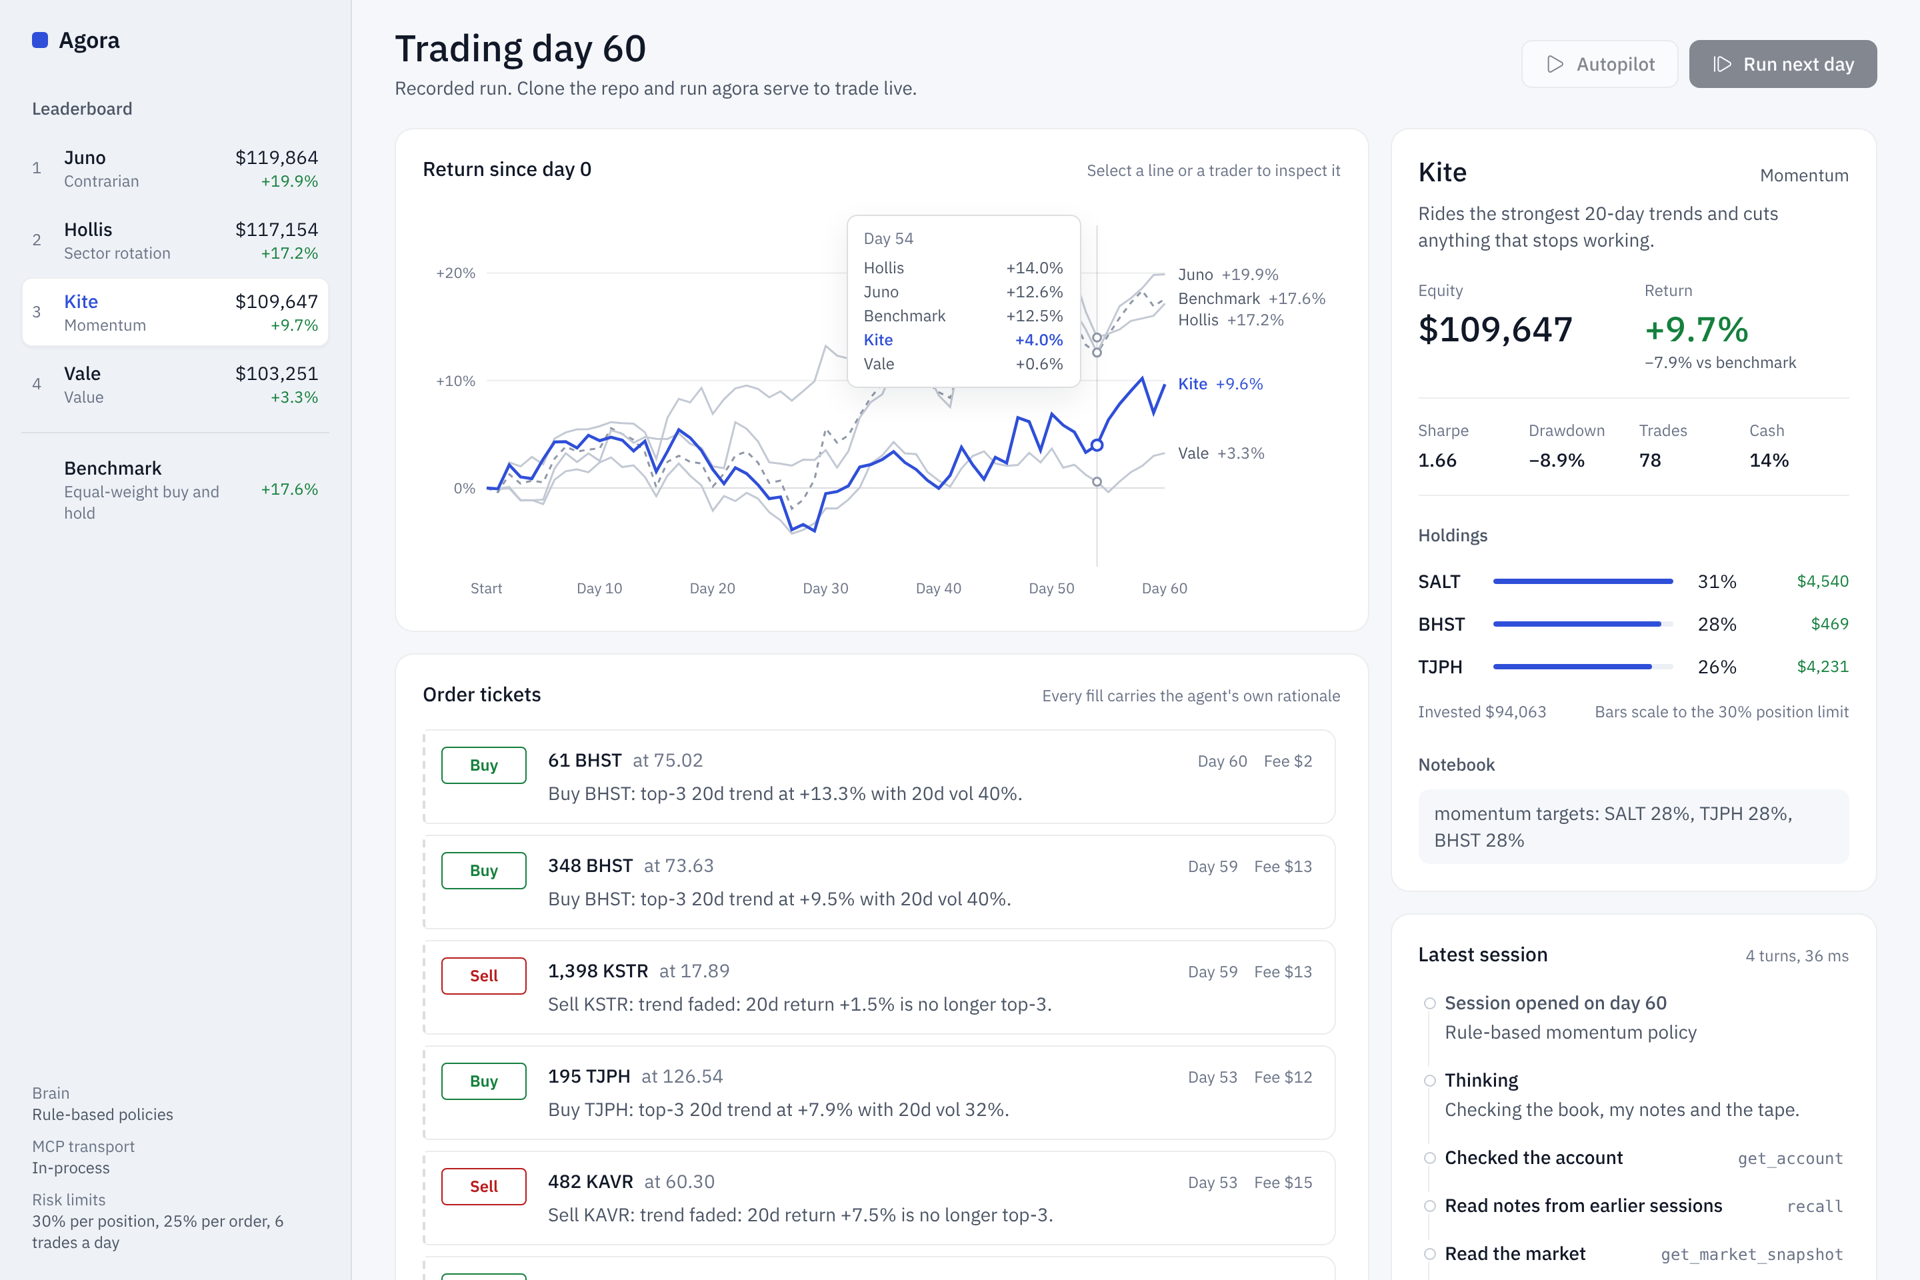
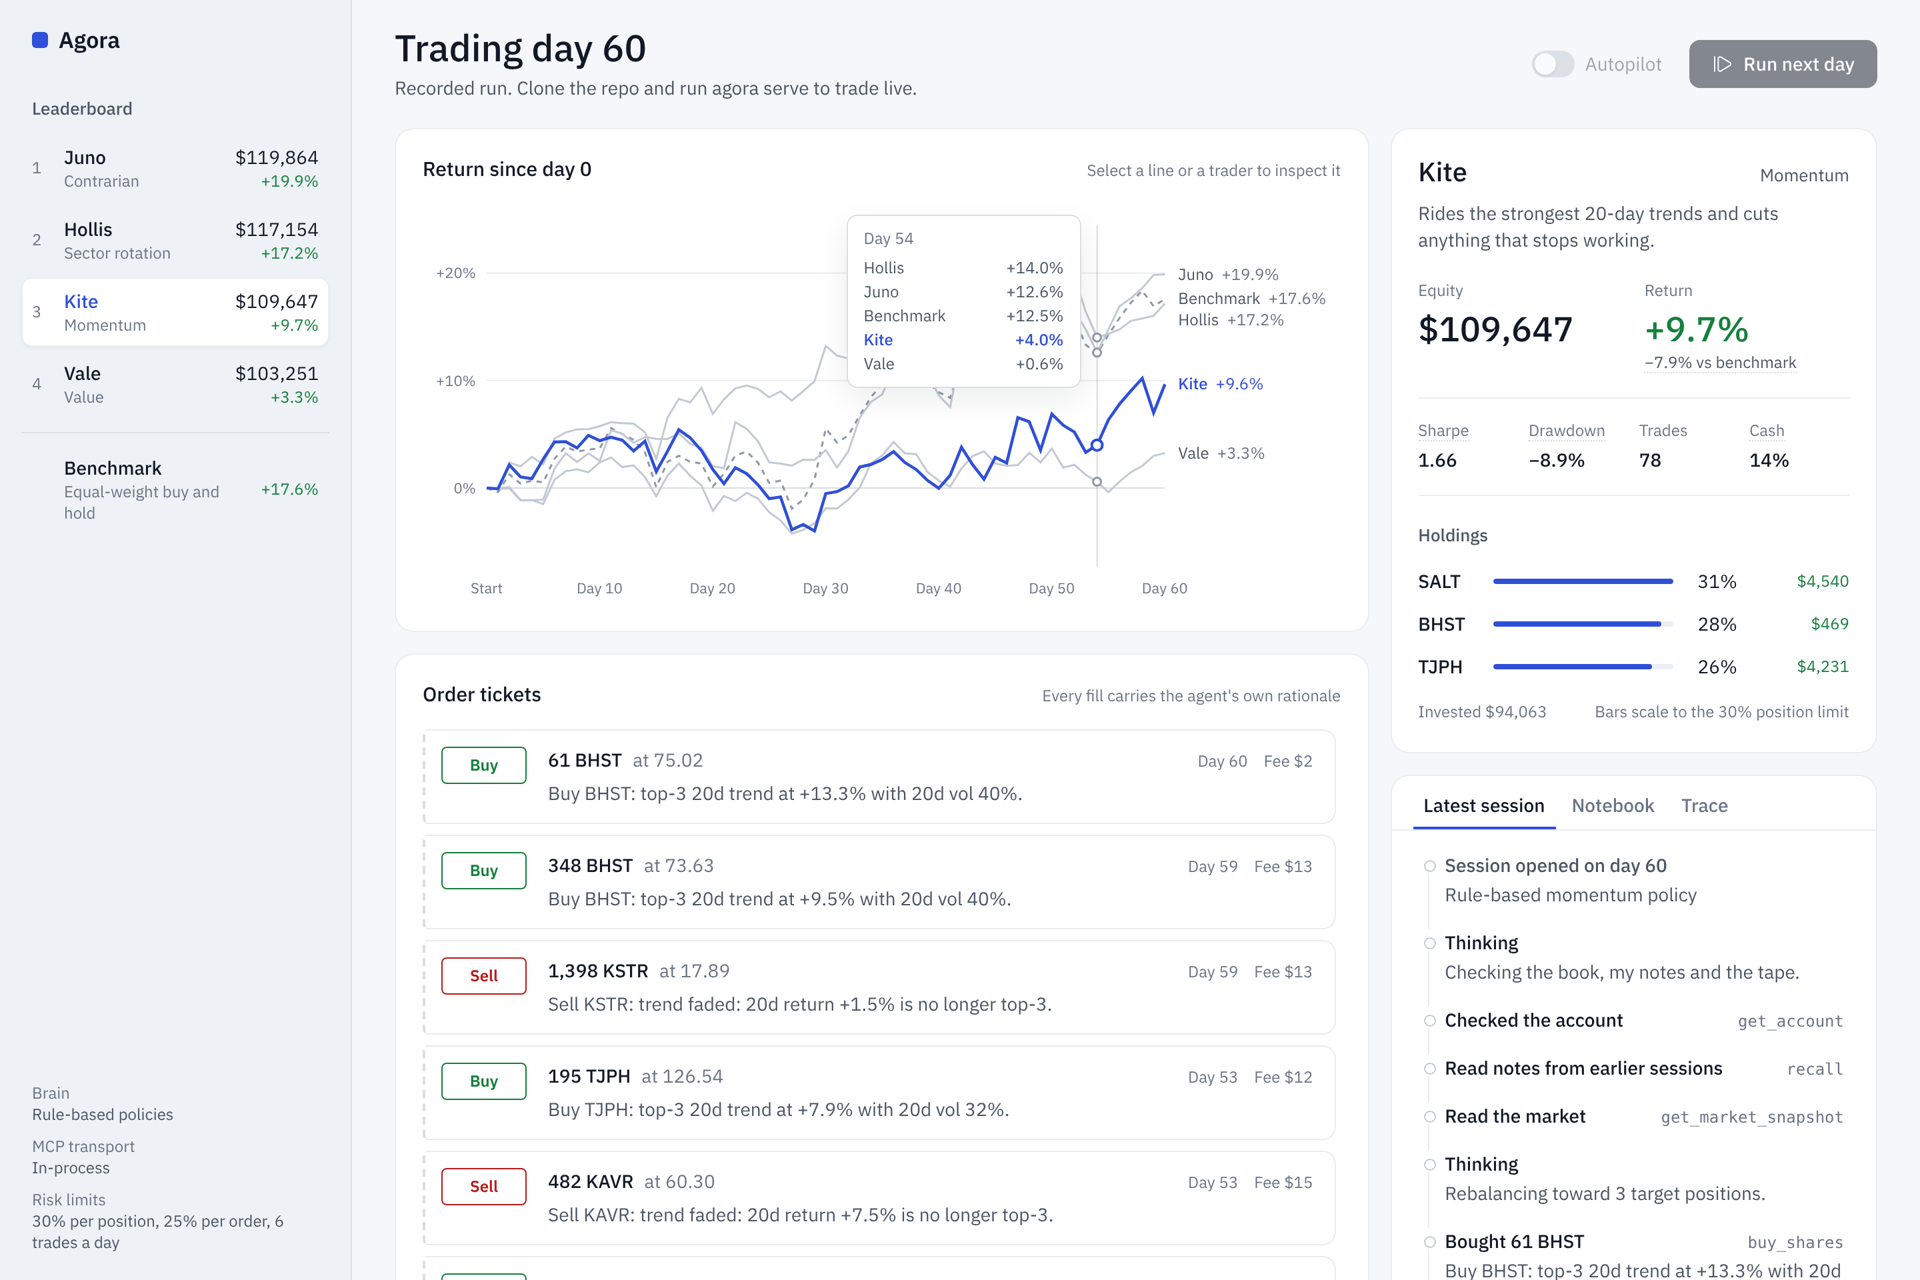
docs: refresh dashboard screenshots and notes

Changed region(s): [[0.7188, 0.5938, 0.9688, 1.0], [0.7812, 0.0312, 0.875, 0.0625]]

diff --git a/README.md b/README.md
@@ -117,10 +117,15 @@ The design treats the floor like an exchange's paper trail rather than a crypto 
 - **Palette:** cool ink neutrals with one cobalt accent for the selected trader and the primary action. Green and red appear only on gains and losses.
 - **Order tickets** are the signature detail: a perforated edge, a Buy, Sell or Rejected stamp, and the agent's own rationale.
 - **The equity chart** is drawn by hand in SVG. It labels each line directly instead of using a legend, has a crosshair tooltip, and drawing order keeps the selected trader on top.
+- **Trace tab:** a waterfall of every span in the agent's last session (model turns, MCP tool calls, the research sub-agent), with duration, turns, tokens and cost.
+- **Built on Radix primitives** (Tabs, Switch, Tooltip), the accessible base layer that shadcn/ui and 21st.dev components use, styled with the dashboard's own tokens. **Motion** animates leaderboard rank changes and tweens figures when a day completes.
 - **Live updates** arrive over SSE, which tails the event log, so progress shows as it happens ("Kite is placing orders").
 - **Quality floor:** responsive down to phone width, visible keyboard focus, `prefers-reduced-motion` respected, tabular figures everywhere.
 
-<img src="docs/tickets.png" width="560" alt="Order tickets with Buy and Sell stamps and the agent's rationale">
+<p>
+<img src="docs/tickets.png" width="520" alt="Order tickets with Buy and Sell stamps and the agent's rationale">
+<img src="docs/trace.png" width="300" alt="Trace waterfall of one trader session">
+</p>
 
 ## Project layout
 
@@ -133,7 +138,7 @@ src/agora/
   market/sim.py  seeded factor-model simulator with generated news
   metrics.py     return, volatility, Sharpe, drawdown, turnover, benchmark
   api/server.py  FastAPI, SSE event stream, autopilot, static hosting
-web/             React + TypeScript + Vite dashboard (no chart library; SVG by hand)
+web/             React + TypeScript + Vite dashboard: Radix primitives, Motion, hand-drawn SVG chart
 tests/           26 tests: ledger and risk, MCP servers (incl. a real stdio subprocess), agent branches, API
 ```
 
